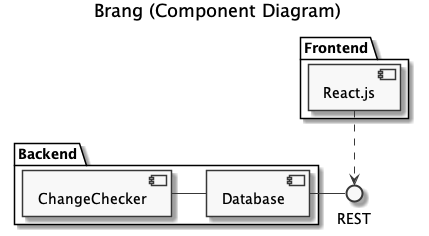
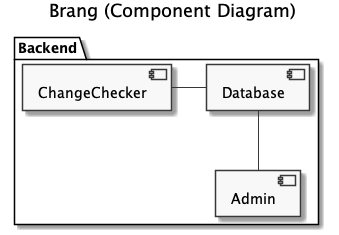
update docs

Changed region(s): [[0.0295, 0.1489, 0.9735, 0.983], [0.1475, 0.0, 0.885, 0.0894]]

diff --git a/docs/architecture.md b/docs/architecture.md
@@ -1,0 +1,24 @@
+# Architecture 
+
+## Functional Requirements
+The user can use the admin.py CMD line tool to add, list and remove sites. 
+![alt text](images/use_case_diagram_human.png)
+
+The sites are observed by Brang in a regular fashion and an e-mail is 
+being sent if a content change was detected. 
+![alt text](images/use_case_diagram_cron.png)
+
+## Non-Functional Requirements
+Target System:
+* Raspberry Pi (Raspbian 9 (Stretch), Linux Kernel 4.14)
+* Python 3.6.6
+* SQLite Database
+
+## System components
+![alt text](images/component_diagram.png)
+
+The ChangeChecker component is invoked by the Linux cron-system. It processes all Sites stored in the Database.
+![alt text](images/activity_diagram_changechecker.png)
+
+The class diagram suggests the following fields and methods for the components:
+![alt text](images/class_diagram.png)

diff --git a/README.md b/README.md
@@ -1,8 +1,6 @@
-
+# Brang
 ![alt text](docs/images/brang.png)
 
+## Summary
 Brang is a Python based software agent that tracks websites for changes.
 The user gets informed via e-mail when it detects changes of the content. 
-
-## Requirements
-Build for Raspberry Pi (Raspbian 9 (Stretch), Linux Kernel 4.14) using Python 3.6.6.
